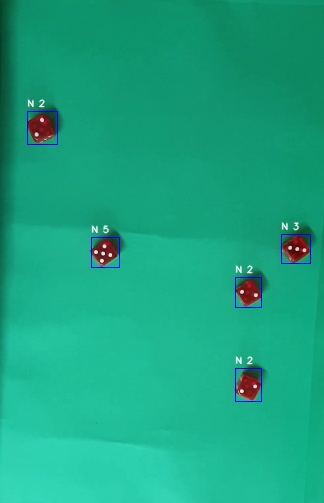
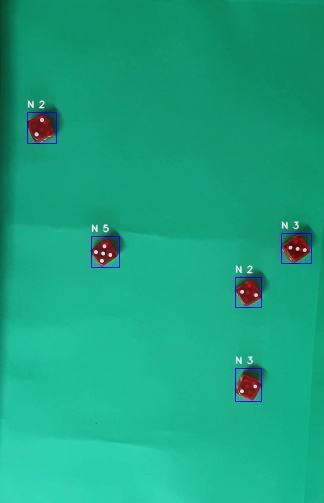
update

Changed region(s): [[0.0617, 0.1789, 0.1852, 0.2982], [0.8642, 0.4473, 0.9877, 0.5368], [0.2778, 0.4473, 0.3704, 0.4771]]

diff --git a/TP3/ej1.py b/TP3/ej1.py
@@ -25,7 +25,7 @@ width = int(cap.get(cv2.CAP_PROP_FRAME_WIDTH))  # Obtiene el ancho del video en 
 height = int(cap.get(cv2.CAP_PROP_FRAME_HEIGHT))  # Obtiene la altura del video en píxeles usando la propiedad CAP_PROP_FRAME_HEIGHT.
 fps = int(cap.get(cv2.CAP_PROP_FPS))  # Obtiene los cuadros por segundo (FPS) del video usando CAP_PROP_FPS.
 # n_frames = int(cap.get(cv2.CAP_PROP_FRAME_COUNT)) # Obtiene el número total de frames en el video usando CAP_PROP_FRAME_COUNT.
-print(fps)
+#print(fps)
 frame_number = 0
 while (cap.isOpened()): # Verifica si el video se abrió correctamente.
 
@@ -58,7 +58,7 @@ while (cap.isOpened()): # Verifica si el video se abrió correctamente.
             y_fin = round(y+(h*0.95))
 
             #cv2.rectangle(frame, (x_ini, y_ini), (x_fin, y_fin), (0, 255, 0), 3)
-            #cv2.imwrite(os.path.join("./frames", f"frame_{frame_number}.jpg"), frame) # Guarda el frame en el archivo './frames/frame_{frame_number}.jpg'.
+            cv2.imwrite(os.path.join("./frames", f"frame_{frame_number}.jpg"), thresh_img) # Guarda el frame en el archivo './frames/frame_{frame_number}.jpg'.
         #video 1 == 65 perfeee
         #video 2 == 65 perfeee
         #video 3 == 65 perfeee
@@ -68,7 +68,7 @@ while (cap.isOpened()): # Verifica si el video se abrió correctamente.
     ###################################################################################################################################################
     ###################################################################################################################################################    
 
-        if (frame_number) == 65:
+        if (frame_number) > 30:
             frame_crop = frame[y_ini:y_fin, x_ini:x_fin]
 
             frame_crop_bgr = cv2.cvtColor(frame_crop, cv2.COLOR_BGR2LAB)
@@ -78,7 +78,7 @@ while (cap.isOpened()): # Verifica si el video se abrió correctamente.
             #_, thresh_img = cv2.threshold(A, thresh=110, maxval=255, type=cv2.THRESH_BINARY)
 
             #num_labels, labels, stats, centroids = cv2.connectedComponentsWithStats(thresh_img, 8, cv2.CV_32S)
-            th_min = 1
+            th_min = 95
             status = False
             max_area = 900
             min_area = 100
@@ -88,12 +88,13 @@ while (cap.isOpened()): # Verifica si el video se abrió correctamente.
     # DETECTA DADOS
     ###################################################################################################################################################        
 
-            while not status and th_min <= 255:
+            while not status and th_min <= 120:
                 _, thresh_img_a = cv2.threshold(A, thresh=th_min, maxval=255, type=cv2.THRESH_BINARY)
 
                 num_labels, labels, stats, centroids = cv2.connectedComponentsWithStats(thresh_img_a, 8, cv2.CV_32S)
 
                 counter_area = []
+                cen_test = []
 
                 if num_labels != 6:
                     th_min += jump
@@ -104,6 +105,7 @@ while (cap.isOpened()): # Verifica si el video se abrió correctamente.
 
                     if a < max_area and a > min_area:
                         counter_area.append(i)
+                        cen_test.append(centroids)
 
                 # Si la cantidad de componentes identificadas es menor de 6, se descarta el umbral
                 if len(counter_area) != 5:
@@ -121,23 +123,24 @@ while (cap.isOpened()): # Verifica si el video se abrió correctamente.
     ###################################################################################################################################################
     # DETECTA NUMEROS
     ###################################################################################################################################################            
-    
+
             for stat in stats:
                 x,y,w,h,a = stat
-                if a < ((x_fin-x_ini)*(y_fin-y_ini)*0.95):
-                    cv2.rectangle(frame_crop, (x, y), (x+w, y+h), (255, 0, 0), 1)
+                if a < max_area and a > min_area:
+                    if a < ((x_fin-x_ini)*(y_fin-y_ini)*0.95):
+                        cv2.rectangle(frame_crop, (x, y), (x+w, y+h), (255, 0, 0), 1)
 
-                    frame_l_crop = L[y:y+h, x:x+w]
+                        frame_l_crop = L[y:y+h, x:x+w]
 
-                    _, thresh_img_l = cv2.threshold(frame_l_crop, thresh=195, maxval=255, type=cv2.THRESH_BINARY)
+                        _, thresh_img_l = cv2.threshold(frame_l_crop, thresh=195, maxval=255, type=cv2.THRESH_BINARY)
 
-                    num_labels, labels, stats, centroids = cv2.connectedComponentsWithStats(thresh_img_l, 8, cv2.CV_32S)
+                        num_labels, labels, stats, centroids = cv2.connectedComponentsWithStats(thresh_img_l, 8, cv2.CV_32S)
 
-                    font = cv2.FONT_HERSHEY_SIMPLEX
+                        font = cv2.FONT_HERSHEY_SIMPLEX
 
-                    cv2.putText(frame_crop, f'N {num_labels-1}', (x, y-5), font, 0.3, (255, 255, 255), 1, cv2.LINE_AA)
+                        cv2.putText(frame_crop, f'N {num_labels-1}', (x, y-5), font, 0.3, (255, 255, 255), 1, cv2.LINE_AA)
 
-                    cv2.imwrite(os.path.join("./frames", f"frame_finaaaaaaaaaaaaaaaaaal.jpg"), frame_crop)
+                        cv2.imwrite(os.path.join("./frames", f"frame_finaaaaaaaaaaaaaaaaaal.jpg"), frame_crop)
 
                     #print(num_labels)
 
